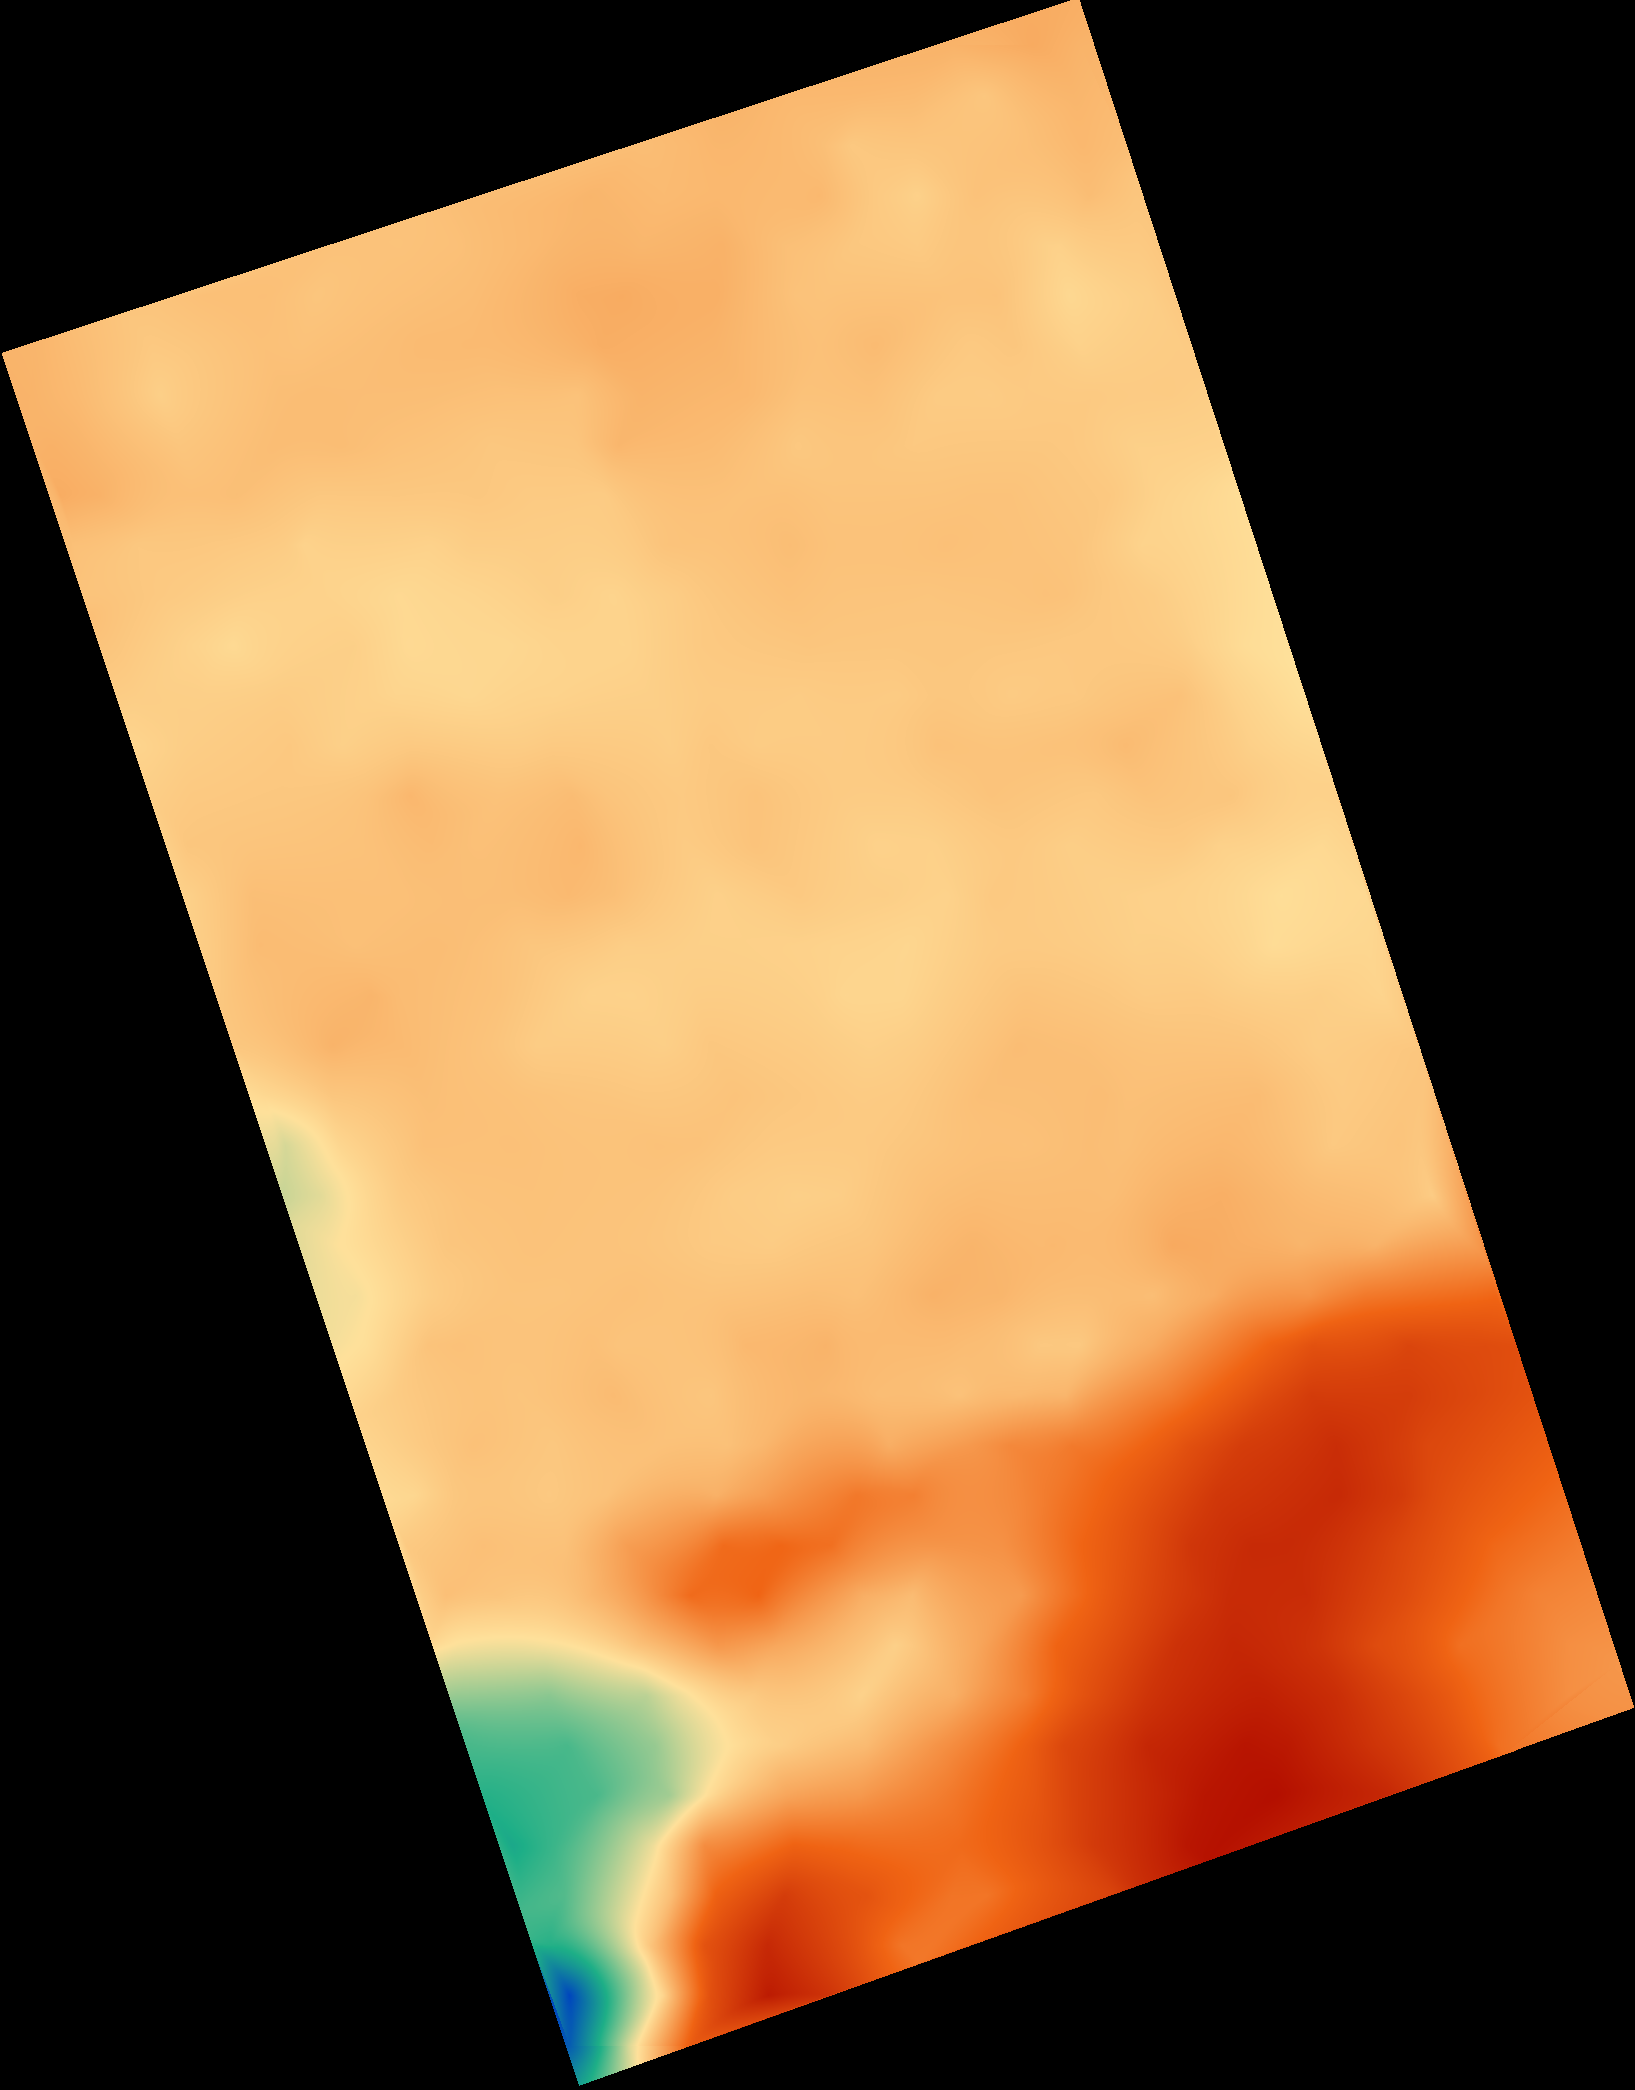
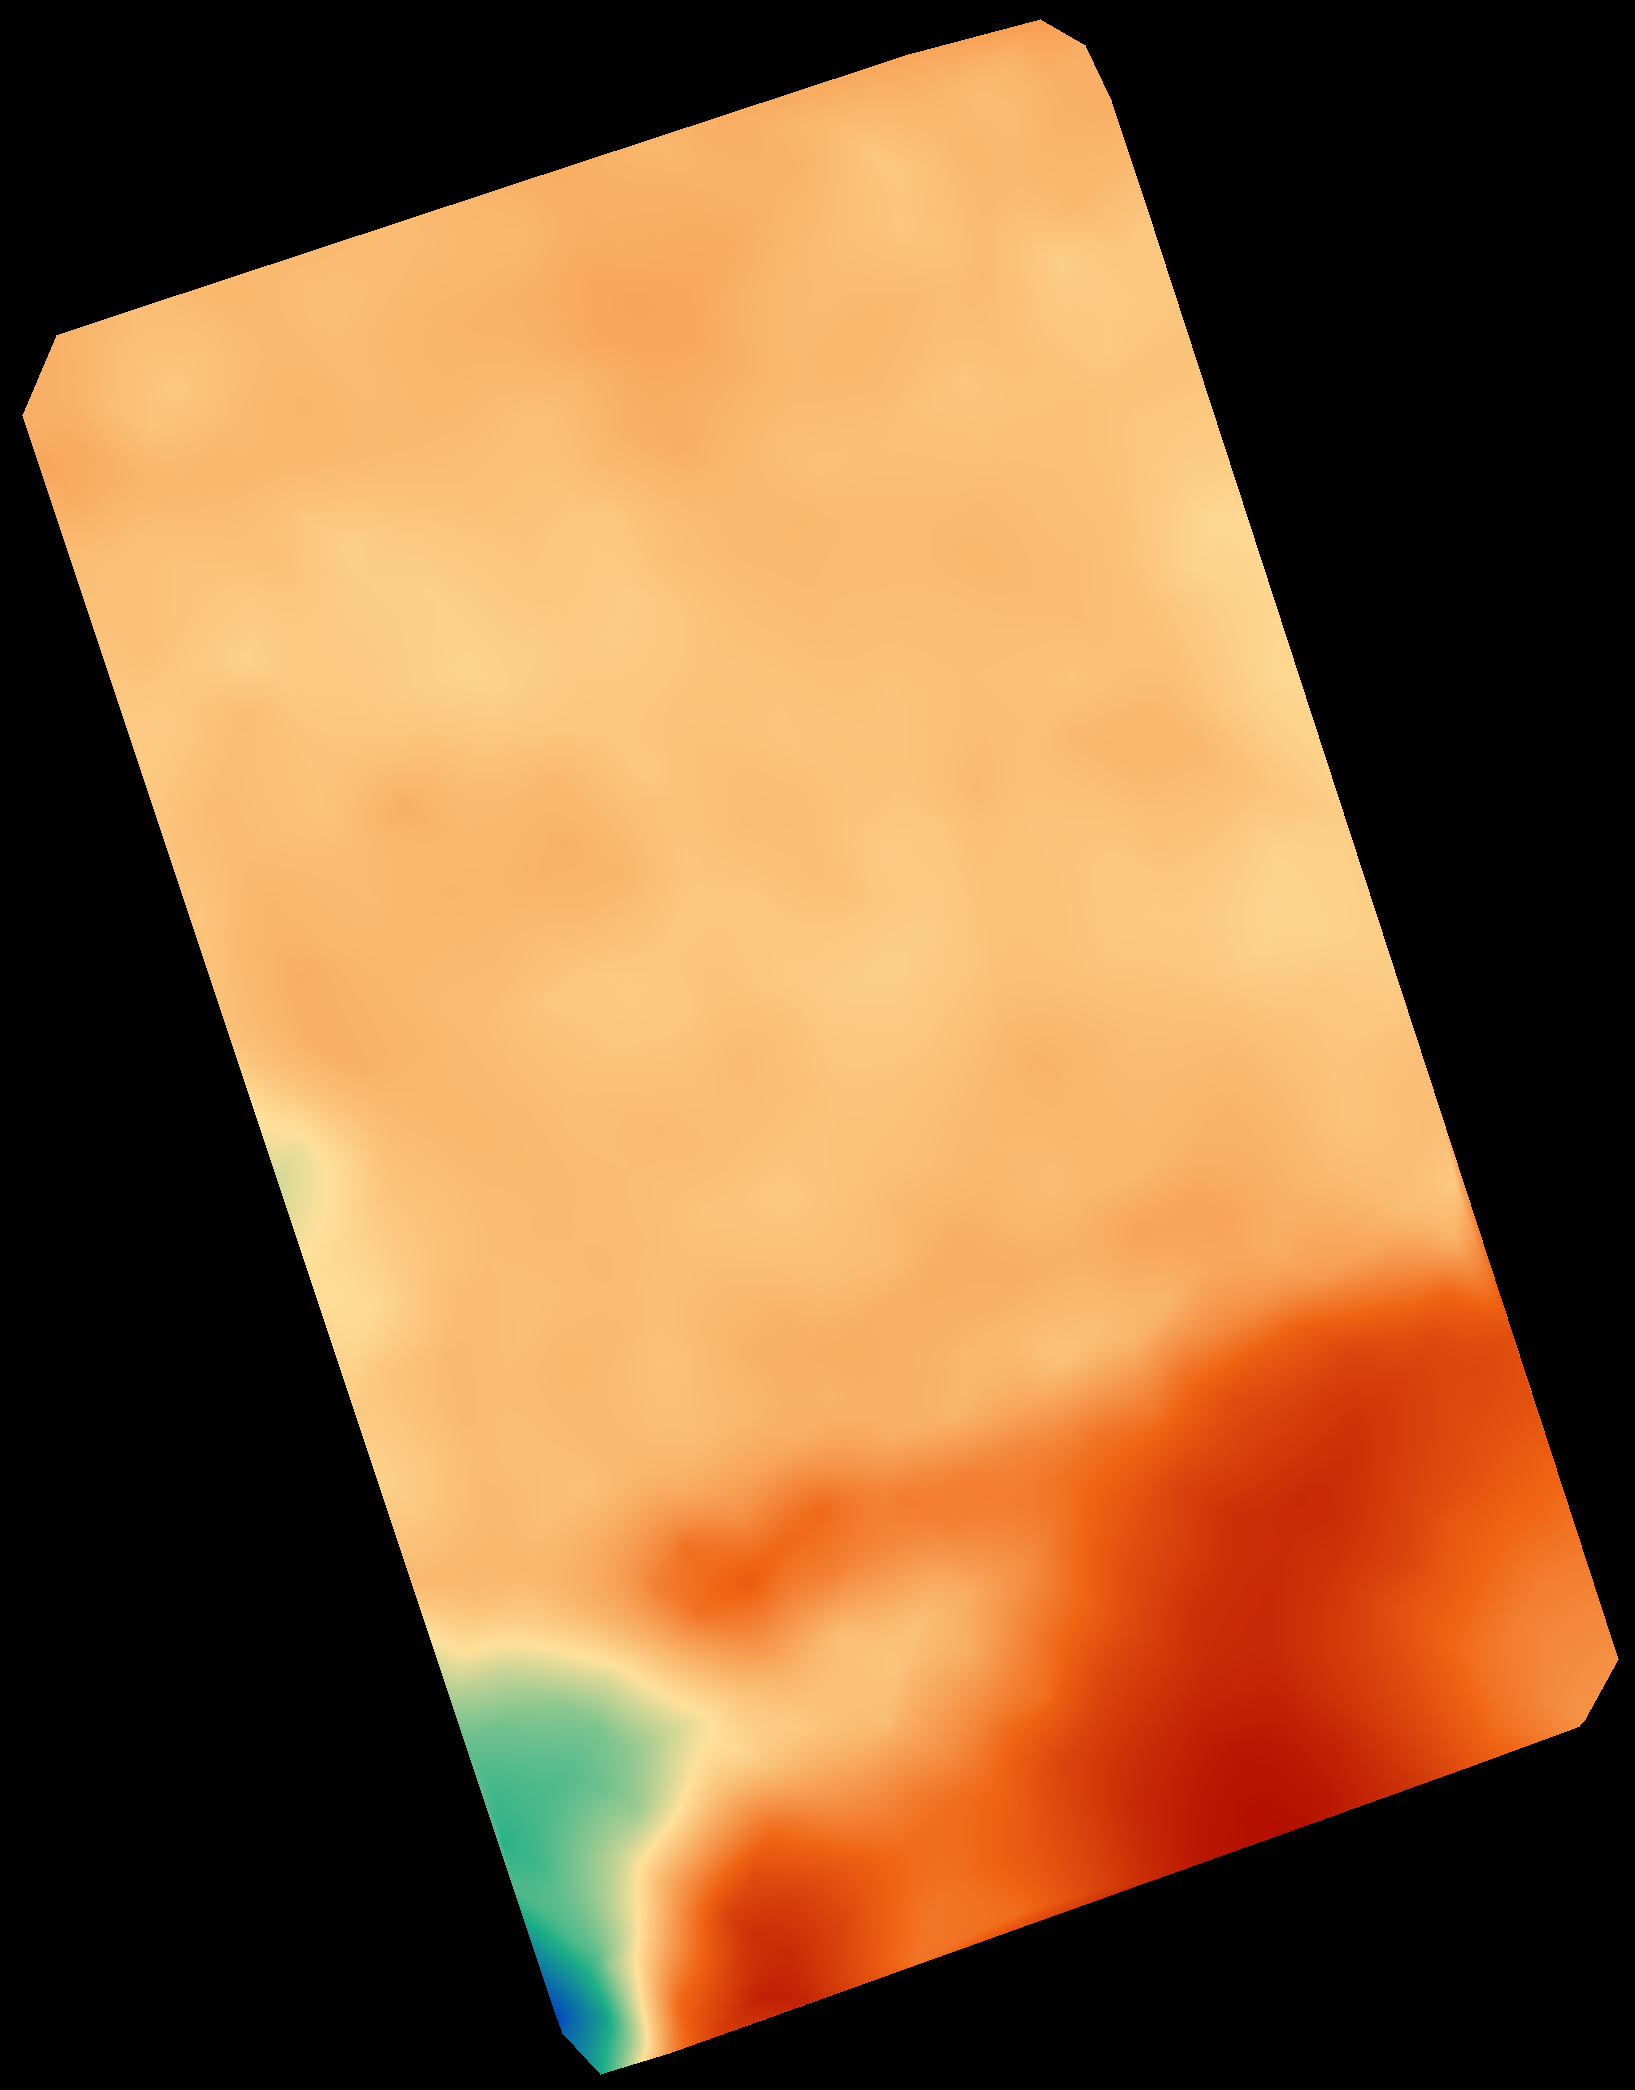
cambios en la interpolacion

diff --git a/simulations/src/processing/interpolation.rs b/simulations/src/processing/interpolation.rs
@@ -474,6 +474,7 @@ impl HasPosition for TinVertex {
     }
 }
 
+
 pub fn interpolation_tin(
     measuring_points: &[(usize, usize)],
     matrix: &[Vec<f64>],
@@ -489,6 +490,7 @@ pub fn interpolation_tin(
     }
 
     let mut triangulation: DelaunayTriangulation<TinVertex> = DelaunayTriangulation::new();
+
     for (i, &idx) in indices.iter().enumerate() {
         let point = measuring_points[idx];
         let vertex = TinVertex {
@@ -516,27 +518,21 @@ pub fn interpolation_tin(
             }
 
             let query = Point2::new(i as f64, j as f64);
-
+            
             match triangulation.locate(query) {
-                PositionInTriangulation::OutsideOfConvexHull(_)
-                | PositionInTriangulation::NoTriangulation => {
-                    result[j][i] = kriging_fallback(
-                        &kdtree, &depth_values, &indices, measuring_points,
-                        i as f64, j as f64, kriging_neighbors,
-                    );
+                PositionInTriangulation::OutsideOfConvexHull(_) => {
+            
+                    result[j][i] = no_data;
+
                 }
                 _ => {
                     if let Some(z) = triangulation
                         .natural_neighbor()
                         .interpolate(|v| v.data().depth, query)
                     {
+
                         result[j][i] = z;
-                    } else {
-                        result[j][i] = kriging_fallback(
-                            &kdtree, &depth_values, &indices, measuring_points,
-                            i as f64, j as f64, kriging_neighbors,
-                        );
-                    }
+                    } 
                 }
             }
         }
@@ -545,29 +541,3 @@ pub fn interpolation_tin(
     result
 }
 
-// --- Helpers -----------------------------------------------
-
-/// Kriging local con los k vecinos más cercanos.
-/// Reemplaza al idw_fallback para suavizar los bordes y evitar el "efecto estrella".
-fn kriging_fallback(
-    kdtree: &KdTree<f64, 2>,
-    values: &[f64],
-    indices: &[usize],
-    measuring_points: &[(usize, usize)],
-    x: f64,
-    y: f64,
-    k: usize,
-) -> f64 {
-    let neighbours = kdtree.nearest_n::<SquaredEuclidean>(&[x, y], k);
-    
-    if neighbours.is_empty() {
-        return 0.0;
-    }
-    
-    // Si caemos exactamente sobre un punto medido, evitamos invertir la matriz
-    if neighbours[0].distance == 0.0 {
-        return values[neighbours[0].item as usize];
-    }
-    
-    compute_kriging(&neighbours, values, indices, measuring_points)
-}

diff --git a/simulations/src/main.rs b/simulations/src/main.rs
@@ -16,7 +16,7 @@ fn main() {
     // --- Recorrido ---
     let path = processing::routing::generate_route(
         &matrix,
-        90.0,  // azimut
+        120.0,  // azimut
         10.0,  // separación en metros
         1.0,   // offset GNSS
     );
